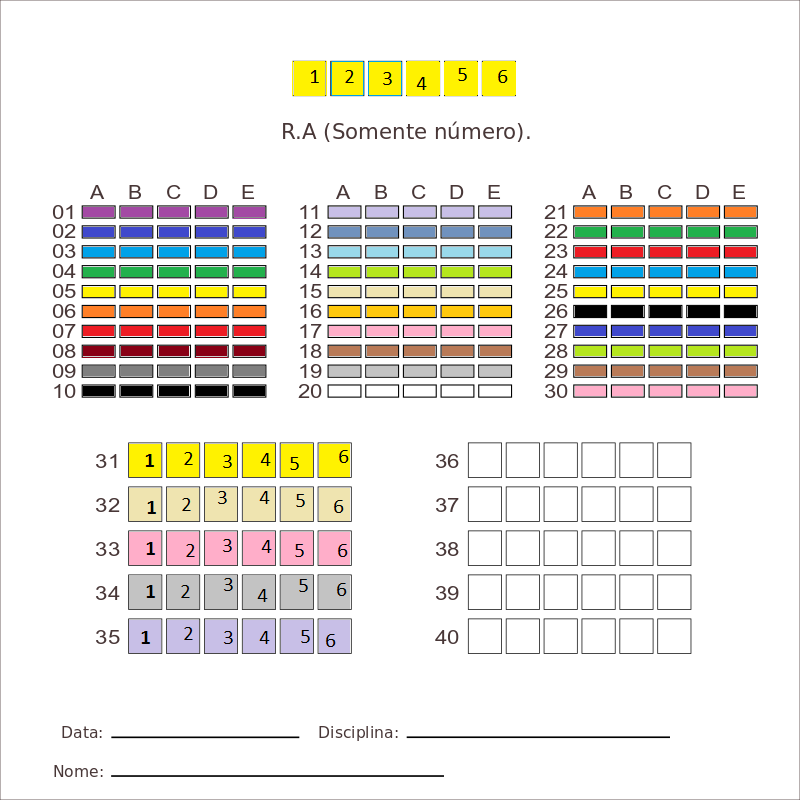
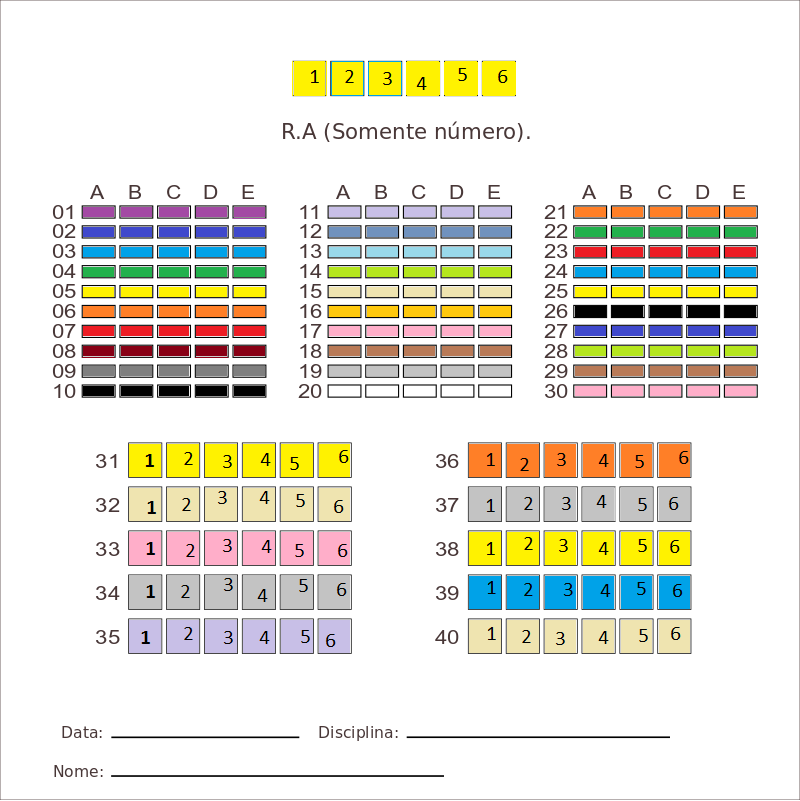
Finishing crop

Changed region(s): [[0.5625, 0.5306, 0.875, 0.8427]]

diff --git a/AutoCorrection.py b/AutoCorrection.py
@@ -3,9 +3,9 @@ import cv2
 imageOriginal = cv2.imread('ModeloGabarito\GabaritoTeste.png')
 resized_image = cv2.resize(imageOriginal, (800, 800))
 
-def cropImage(xCoord, yCoord, heightRect, widthRect):
+def cropImage(xCoord, yCoord, height, width):
     
-    crop = resized_image[yCoord:yCoord + heightRect, xCoord:xCoord + widthRect]
+    crop = resized_image[yCoord:yCoord + height, xCoord:xCoord + width]
     cv2.imshow('Image', crop)
     cv2.waitKey(0)
 
@@ -21,13 +21,11 @@ def multipleChoice():
     widthRect = 30
     
     for key in xVertexDict:
-    
         yCoordRect = 207
         xListCoord = xVertexDict[key]
         
         for i in range(10): # 10 questions
             for xCoordRect in xListCoord:
-                
                 cropImage(xCoordRect, yCoordRect, heightRect, widthRect)
                 
             yCoordRect = yCoordRect + 20 #Next Question
@@ -35,31 +33,33 @@ def multipleChoice():
 def RA():
 
     xVertexRA = [294, 333, 371, 409, 447, 485]
-    
     yCoordRA = 62
-    heightRect = 31
-    widthRect = 29
+    heightSquare = 31
+    widthSquare = 29
     
     for xCoordRA in xVertexRA:
-        
-        cropImage(xCoordRA, yCoordRA, heightRect, widthRect)
+        cropImage(xCoordRA, yCoordRA, heightSquare, widthSquare)
         
 def otherAnswers():
     
-    xVertexOthers = [129, 167, 205, 243, 280, 318]
-
-    heightRect = 31
-    widthRect = 29
-    yCoord = 443
+    xVertexDict = {
+        '31_Vertex_ABCDE' : [129, 167, 205, 243, 280, 318],
+        '36_Vertex_ABCDE' : [469, 507, 544, 582, 620, 658]
+    }
+    
+    heightSquare = 31
+    widthSquare = 29
+    
+    for key in xVertexDict:
+        yCoord = 443
+        xListCoord = xVertexDict[key]
         
-    for i in range(5): # 5 questions
-    
-        for xCoord in xVertexOthers:
+        for i in range(5): # 5 Questions
+            for xCoord in xListCoord:
+                cropImage(xCoord, yCoord, heightSquare, widthSquare)
                 
-            cropImage(xCoord, yCoord, heightRect, widthRect)
-                
-        yCoord = yCoord + 44 #Next Question
-    
-multipleChoice()
-RA()
-otherAnswers()
+            yCoord = yCoord + 44 #Next Question
+        
+#multipleChoice()
+#RA()
+#otherAnswers()
